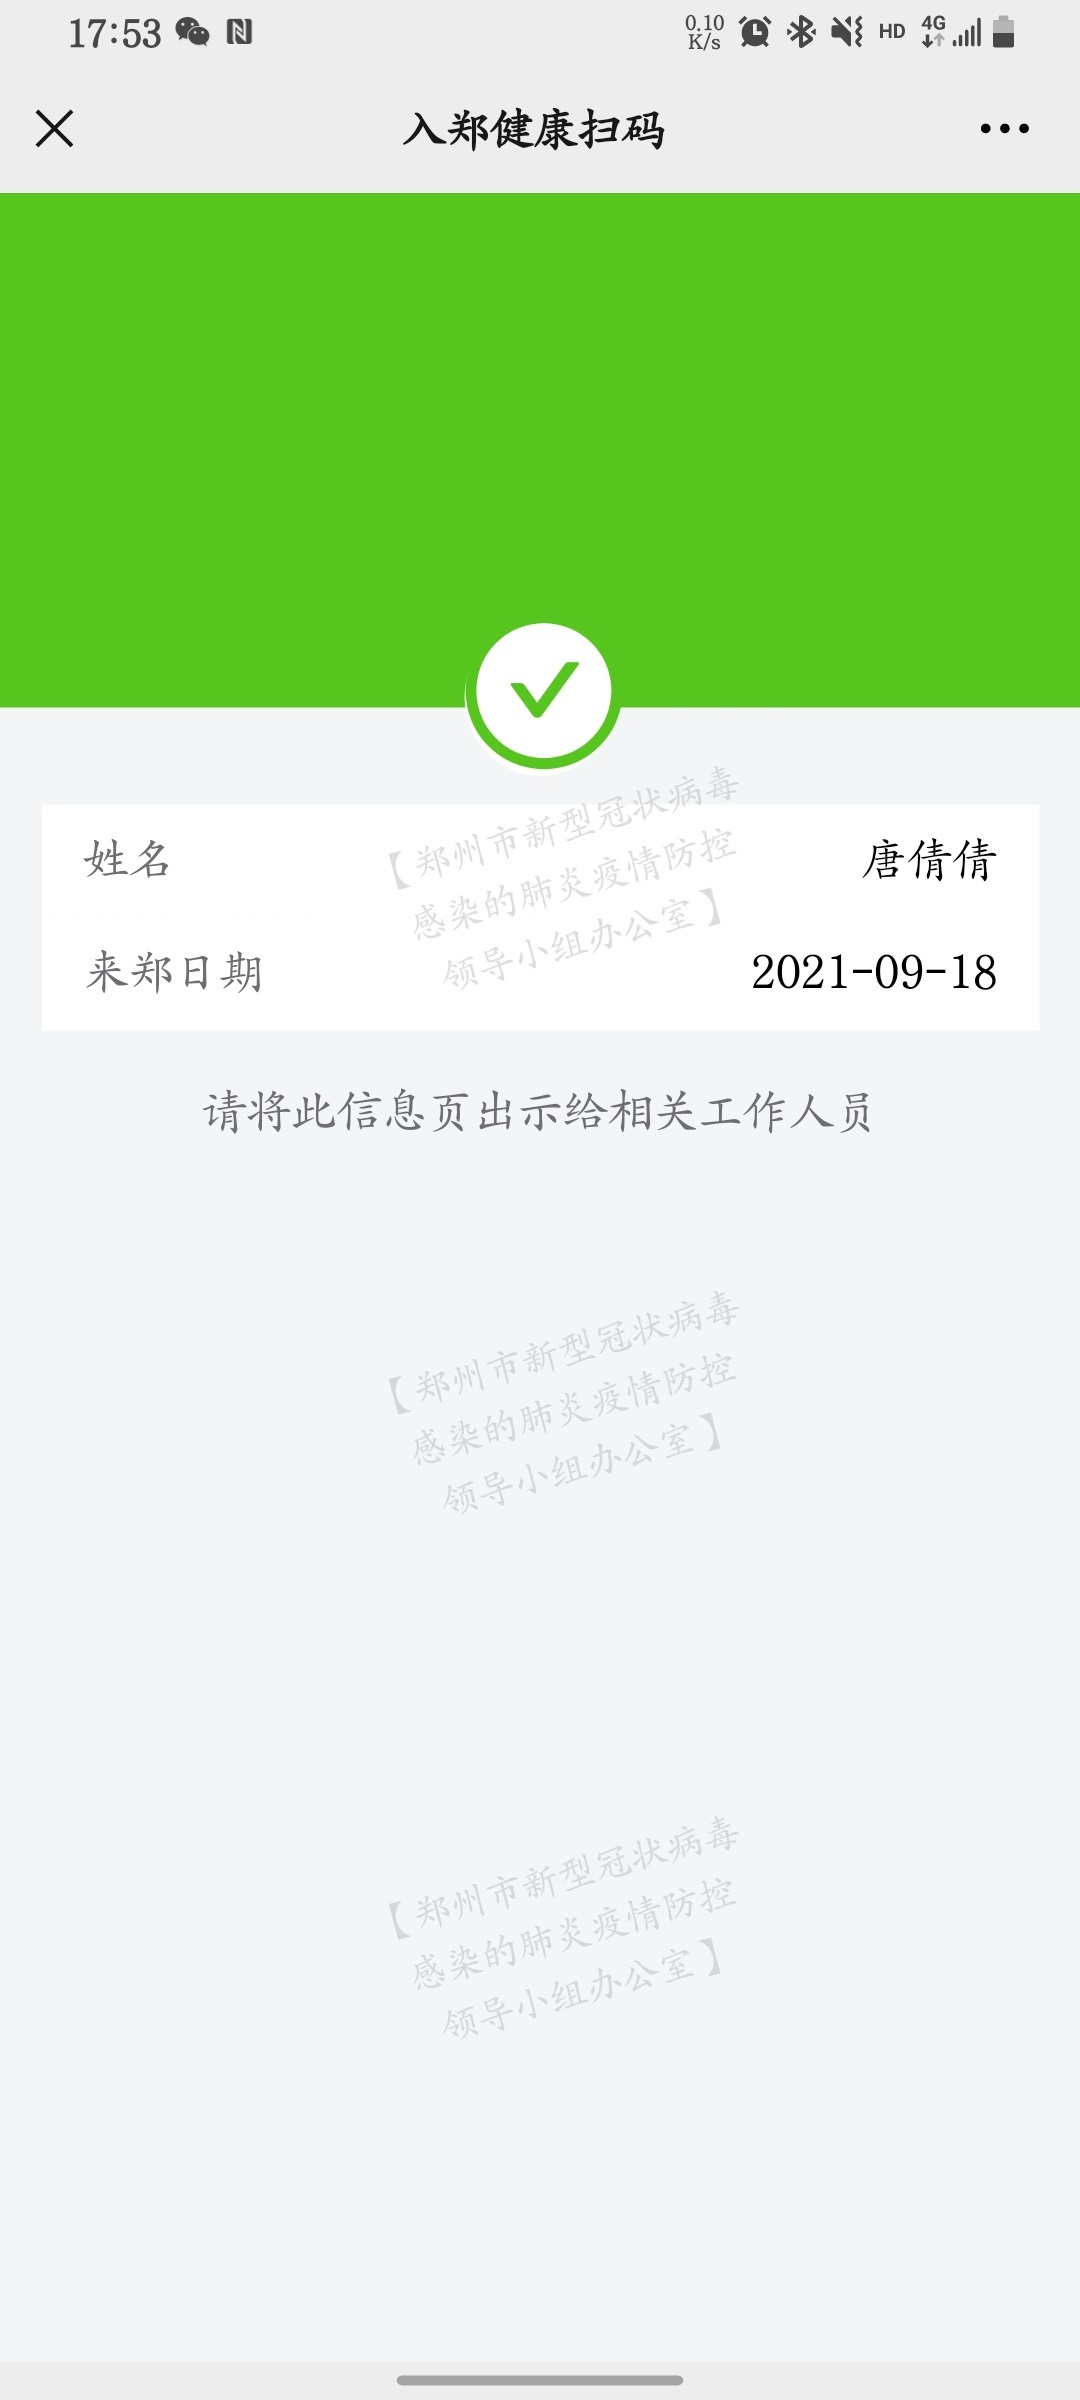
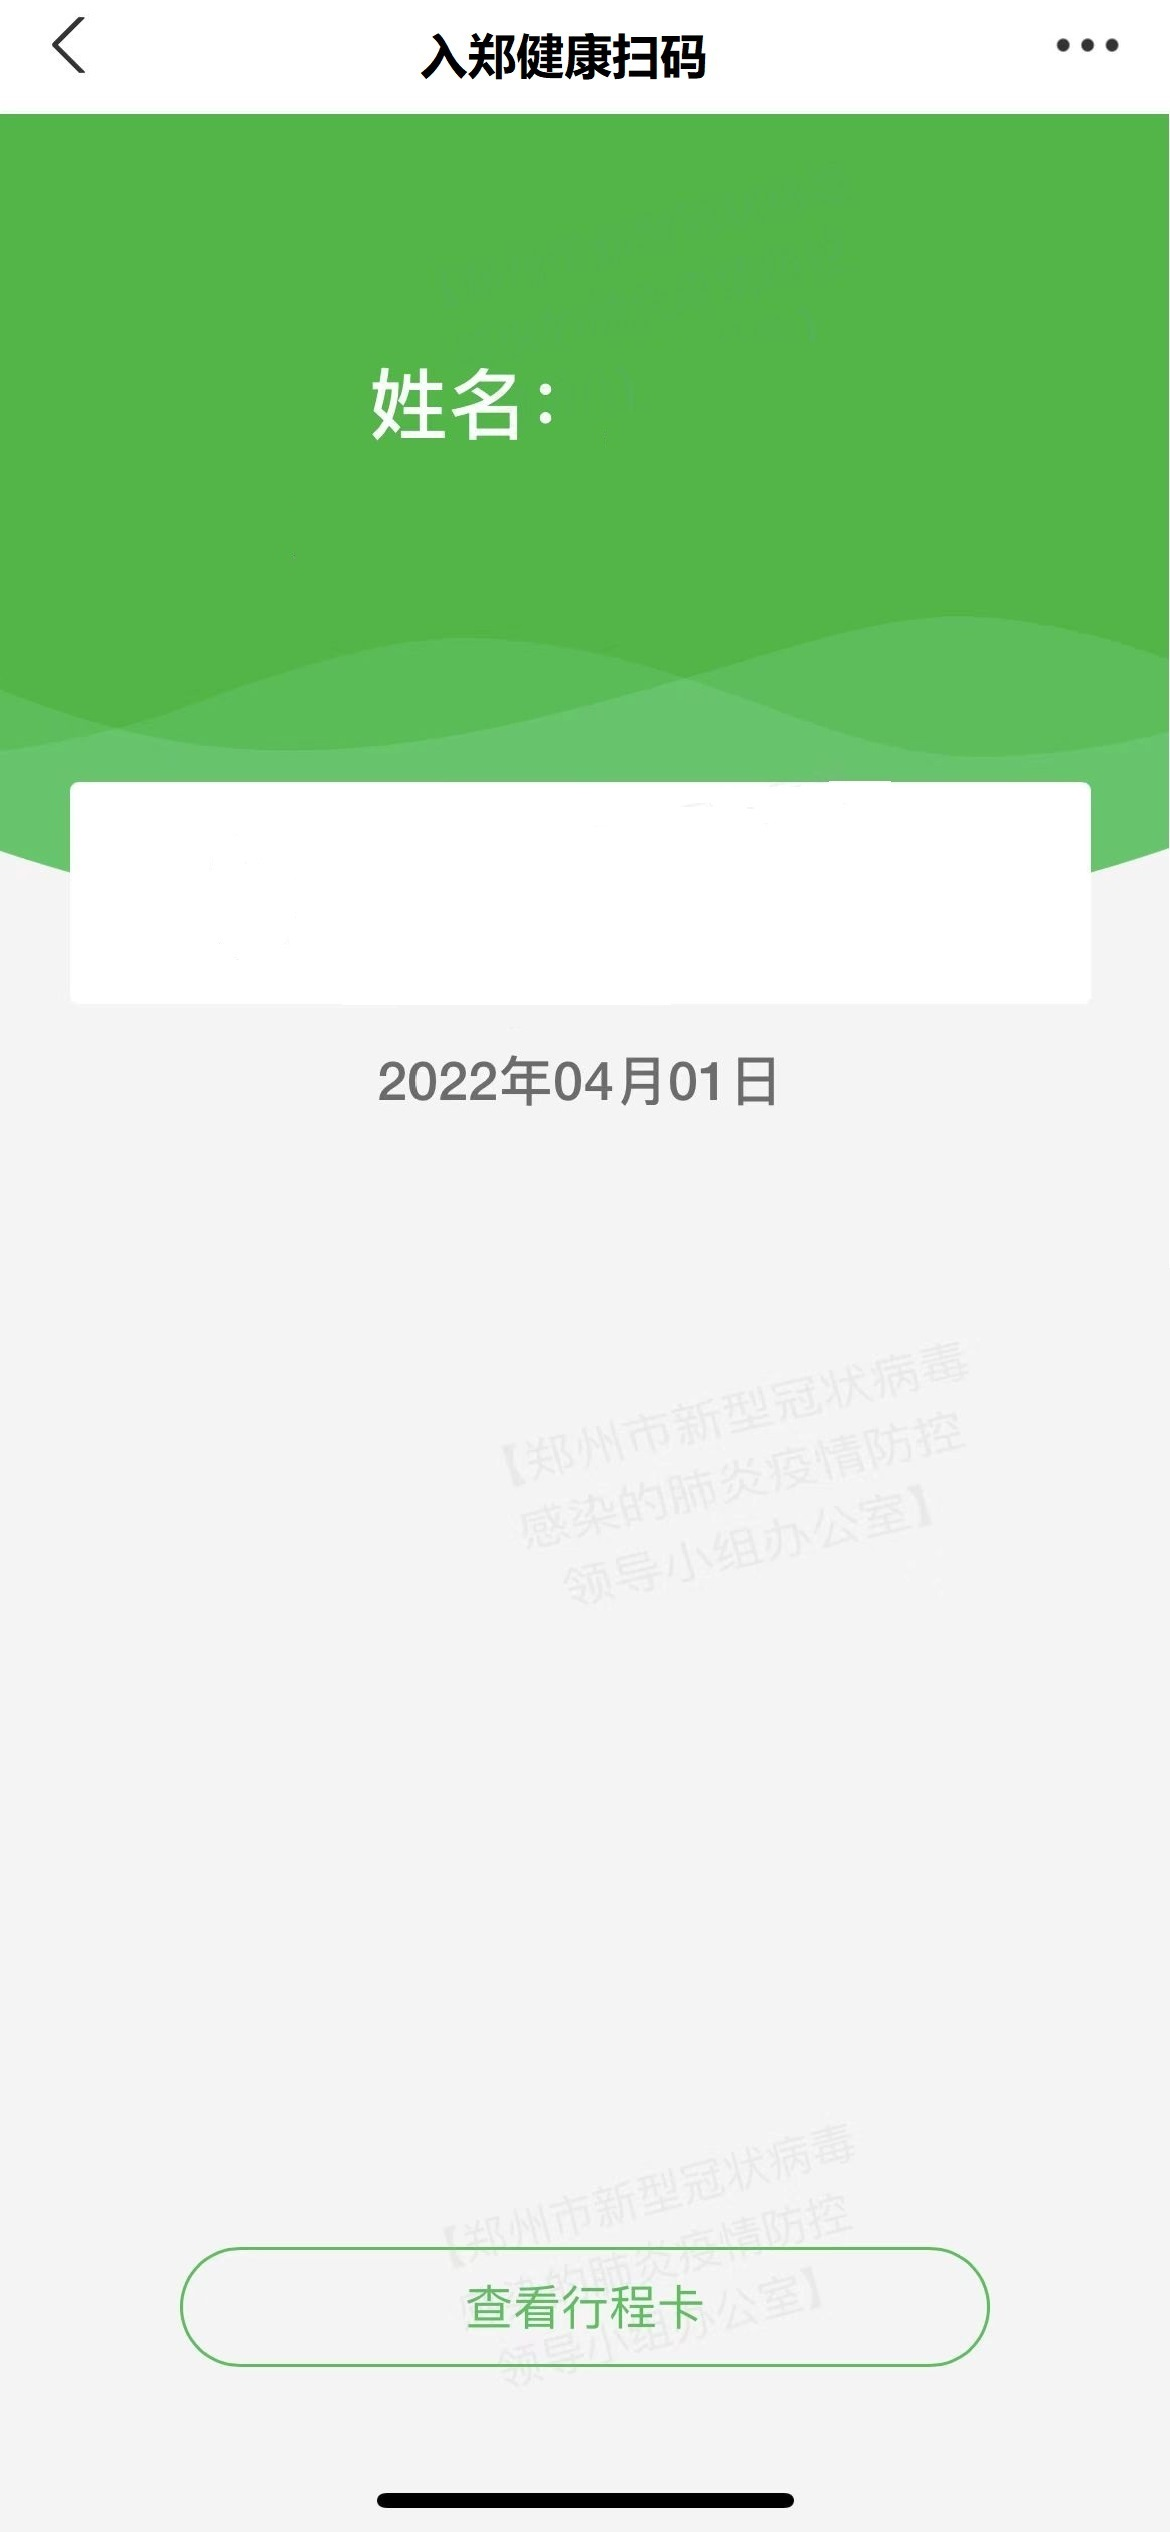
资源

diff --git a/zjlm.html b/zjlm.html
@@ -7,64 +7,69 @@
     <style type="text/css">
         .auto-style1 {
             position: absolute;
-            height: 60px;
-            width: 534px;
-            left: 312px;
-            top: 466px;
+            height: 220px;
+            width: 1018px;
+            left: 80px;
+            top: 790px;
             z-index: 99;
-            font-size:58px;
+            font-size:210px;
             text-align:center;
-            color:white;
+            color:black;
             padding-top:0px;
-            font-family: 华文楷体;
+            line-height: 220px;
+            font-family:微软雅黑;
         }
         .auto-style2 {
             position: absolute;
             height: 50px;
             width: 153px;
             z-index: 99;
-            left: 859px;
-            top: 845px;
-            background-color:white;
+            left: 590px;
+            top: 360px;
             text-align:center;
-            font-size:45px;
-            font-family: 华文楷体;
+            font-size:73px;
+            font-family: 微软雅黑;
+            color: #F6FFF4;
         }
         .auto-style3 {
             position: absolute;
-            height: 50px;
-            width: 281px;
+            height: 70px;
+            width: 400px;
             z-index: 99;
-            left: 745px;
-            top: 959px;
-            font-size:45px;
-            background-color:white;
-            text-align:right;
+            left: 385px;
+            top: 1055px;
+            font-size:50px;
+            background-color:#F4F4F4;
+            text-align:center;
+            color: #6C6C6C;
+            font-family: 微软雅黑;
+            font-weight: 545;
         }
         .auto-style4{
             position: absolute;
-            height: 70px;
-            width: 534px;
-            left: 312px;
-            top: 326px;
+            height: 90px;
+            line-height: 90px;
+            width: 1165px;
+            left: 10px;
+            top: 490px;
             z-index: 99;
-            font-size:52px;
-            font-weight: bold;
+            font-size:65px;
+            font-weight: normal;
             text-align:center;
             color:white;
             padding-top:0px;
-            font-family: 华文楷体;
+            font-family: 微软雅黑;
         }
         .img_style{
             position: absolute;
             z-index: 999;
-            top:240px;
-            left: 390px;
+            top:780px;
+            left: 460px;
         }
     </style>
 </head>
 <body>
-    <img src="img/zzlm.jpg">
+    <img id="back" src="img/zzlm.jpg">
     <img src="img/zzlogo.png" class="img_style">
     <div class="auto-style4"></div>
     <div class="auto-style1"></div>
@@ -73,6 +78,12 @@
 </body>
 <script type="text/javascript">
     $(function (){
+        const zz=getQueryconstiable("zz");
+        const xq=getQueryconstiable("xq");
+        if(zz=="true")
+            $("#back").attr("src","img/zzlm.jpg");
+        if(xq=="true")
+            $("#back").attr("src","img/zzxqlm.jpg");
         const xm=getQueryconstiable("xm");
         const location=getQueryconstiable("location");
         $(".auto-style4").html(location);
@@ -87,8 +98,9 @@
         const day = date.getDate() < 10 ? "0" + date.getDate() : date.getDate();
         const hour = date.getHours() < 10 ? "0" + date.getHours() : date.getHours();
         const minutes = date.getMinutes() < 10 ? "0" + date.getMinutes() : date.getMinutes();
-        $(".auto-style1").html(year + "-" + month + "-" + day + "&nbsp;&nbsp;" + hour + ":" + minutes);
-        $(".auto-style3").html(year + "-" + month + "-" + day );
+        const second = date.getSeconds() < 10 ? "0" + date.getSeconds() : date.getSeconds();
+        $(".auto-style1").html(hour + ":" + minutes+":"+second);
+        $(".auto-style3").html(year + "年" + month + "月" + day + "日" );
     }
 
     /**

diff --git a/index.html b/index.html
@@ -100,6 +100,12 @@
                     <a id="zz" class="btn btn-danger radius">郑州绿码</a>
                 </div>
             </div>
+            <div class="row cl">
+                <div class="formControls col-sm-3 col-xs-3"></div>
+                <div class="formControls col-sm-6 col-xs-6">
+                    <a id="zzxq" class="btn btn-danger radius">郑州小区绿码</a>
+                </div>
+            </div>
         </form>
         <form class="form form-horizontal">
             <div class="row cl">
@@ -151,7 +157,10 @@
             $(this).attr("href","yxlm.html?m="+$("#m").val()+"&card="+$("#card").val());
         });
         $("#zz").click(function (){
-            $(this).attr("href","zjlm.html?xm="+$("#xm").val()+"&location="+$("#location").val());
+            $(this).attr("href","zjlm.html?zz=true&xm="+$("#xm").val()+"&location="+$("#location").val());
+        });
+        $("#zzxq").click(function (){
+            $(this).attr("href","zjlm.html?xq=true&xm="+$("#xm").val()+"&location="+$("#location").val());
         });
         $("#bjlmzc").click(function (){
             $(this).attr("href","bjlm.html?zc=true");
